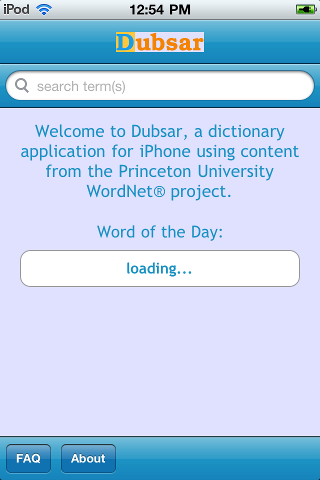
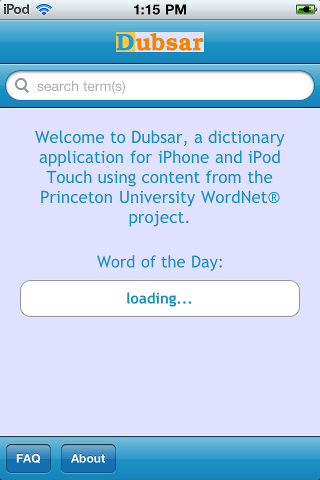
some cosmetic odds and ends, including an iPhone launch screen

Changed region(s): [[0.0625, 0.25, 0.9375, 0.6875], [0.4062, 0.0, 0.5938, 0.0312]]

diff --git a/Dubsar/LicenseViewController_iPad.m b/Dubsar/LicenseViewController_iPad.m
@@ -27,7 +27,7 @@
     self = [super initWithNibName:nibNameOrNil bundle:nibBundleOrNil];
     if (self) {
         // Custom initialization
-        self.title = @"Dubsar License";
+        self.title = @"Dubsar License Info";
     }
     return self;
 }
